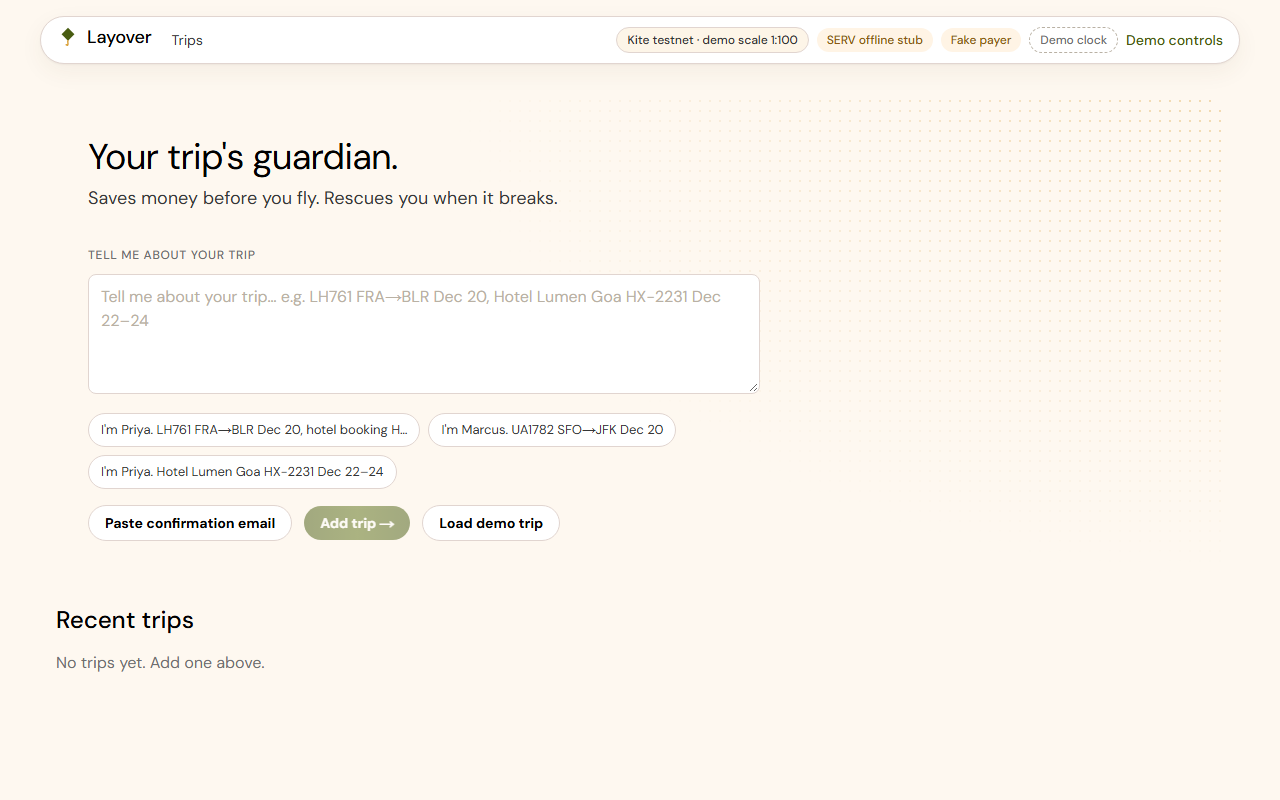
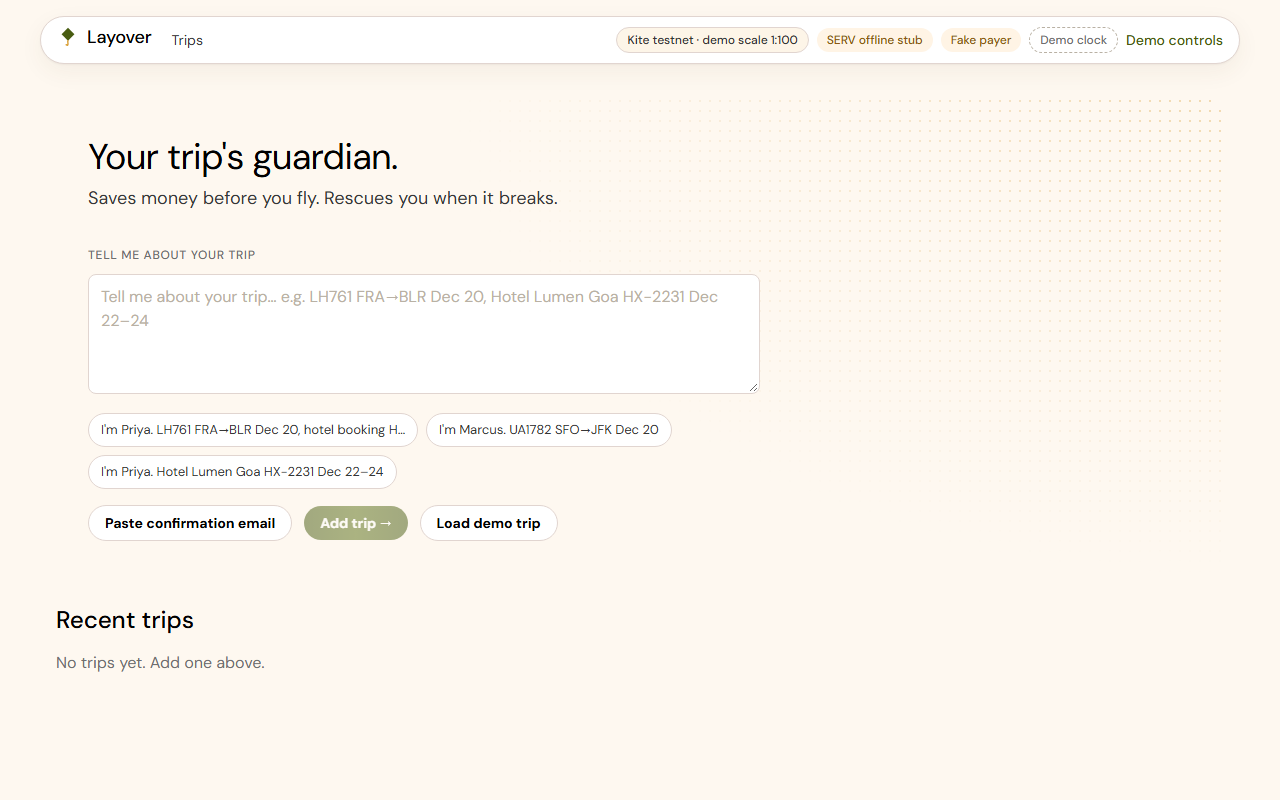
fix(M11): self-host fonts so the build needs no network

diff --git a/apps/web/app/layout.tsx b/apps/web/app/layout.tsx
@@ -1,14 +1,12 @@
 import type { ReactNode } from "react";
-import { DM_Sans, JetBrains_Mono, Spectral } from "next/font/google";
+// Self-hosted fonts (no network at build time): DM Sans 400/500/700, JetBrains Mono 400/500, Spectral 400.
+import "@fontsource/dm-sans/400.css";
+import "@fontsource/dm-sans/500.css";
+import "@fontsource/dm-sans/700.css";
+import "@fontsource/jetbrains-mono/400.css";
+import "@fontsource/jetbrains-mono/500.css";
+import "@fontsource/spectral/400.css";
 import "../styles/theme.css";
-
-const dmSans = DM_Sans({ subsets: ["latin"], weight: ["400", "500", "700"], variable: "--font-dm-sans" });
-const mono = JetBrains_Mono({
-  subsets: ["latin"],
-  weight: ["400", "500"],
-  variable: "--font-jetbrains-mono",
-});
-const spectral = Spectral({ subsets: ["latin"], weight: ["400"], variable: "--font-spectral" });
 
 export const metadata = {
   title: "Layover · your trip's guardian",
@@ -18,7 +16,7 @@ export const metadata = {
 
 export default function RootLayout({ children }: { children: ReactNode }) {
   return (
-    <html lang="en" className={`${dmSans.variable} ${mono.variable} ${spectral.variable}`}>
+    <html lang="en">
       <body className="min-h-screen">{children}</body>
     </html>
   );

diff --git a/apps/web/styles/theme.css b/apps/web/styles/theme.css
@@ -37,9 +37,9 @@
   --r-input: 8px;
   --shadow-card: 0 1px 2px rgba(0, 0, 0, 0.04), 0 8px 24px rgba(91, 75, 36, 0.06);
   /* Type (next/font variables with spec fallbacks) */
-  --font-sans: var(--font-dm-sans), -apple-system, "Segoe UI", Helvetica, Arial, sans-serif;
-  --font-mono: var(--font-jetbrains-mono), "Roboto Mono", ui-monospace, monospace;
-  --font-serif-pp: var(--font-spectral), Georgia, serif;
+  --font-sans: "DM Sans", -apple-system, "Segoe UI", Helvetica, Arial, sans-serif;
+  --font-mono: "JetBrains Mono", "Roboto Mono", ui-monospace, monospace;
+  --font-serif-pp: "Spectral", Georgia, serif;
 }
 
 @theme inline {
